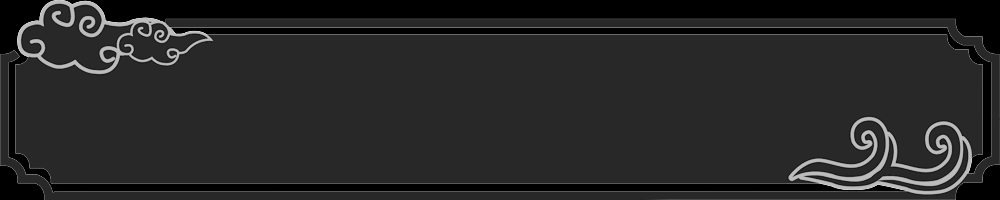
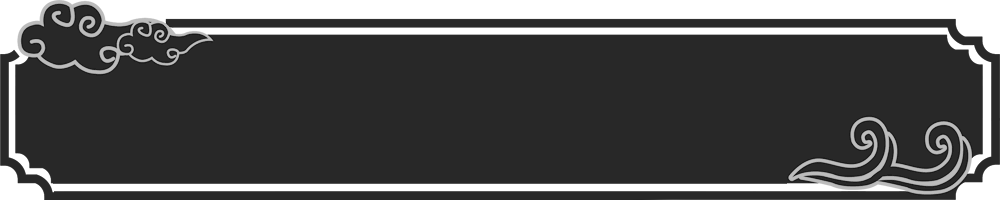
风格优化

Changed region(s): [[0.0, 0.0, 1.0, 1.0]]

diff --git a/app/pages/home/ComposeMainTabPage.js b/app/pages/home/ComposeMainTabPage.js
@@ -20,6 +20,7 @@ import {
 } from '../../constants/custom-ui';
 
 import Panel from '../../components/panel';
+import ImageCapInset from 'react-native-image-capinsets-next';
 
 class ComposeMainTabPage extends Component {
 
@@ -98,8 +99,13 @@ class ComposeMainTabPage extends Component {
                             keyExtractor={item => item.id}
                         />
                     </View>
-                    <View style={{ height: 100, flexDirection: 'column'}}>
-                        <View style={{ flex: 1, justifyContent: 'center', alignItems: 'center', borderWidth: 1, borderColor: '#ccc', backgroundColor: '#eee', margin: 10 }}>
+                    <View style={{ height: 100, marginBottom: 10, flexDirection: 'column'}}>
+                        <ImageCapInset
+                            style={{ width: '100%', height: '100%', position: 'absolute', opacity: 0.3 }}
+                            source={require('../../../assets/bg/area.png')}
+                            capInsets={{ top: 30, right: 30, bottom: 30, left: 30 }}
+                        />
+                        <View style={{ flex: 1, justifyContent: 'center', alignItems: 'center', borderWidth: 1, borderColor: '#ccc', backgroundColor: 'rgba(0,0,0,0.08)', margin: 10 }}>
                             <Text>{selectedProp != undefined ? (selectedProp.name + ':') : ''}</Text>
                             <Text>{(selectedProp != undefined && selectedProp.desc != undefined) ? selectedProp.desc : ''}</Text>
                         </View>
